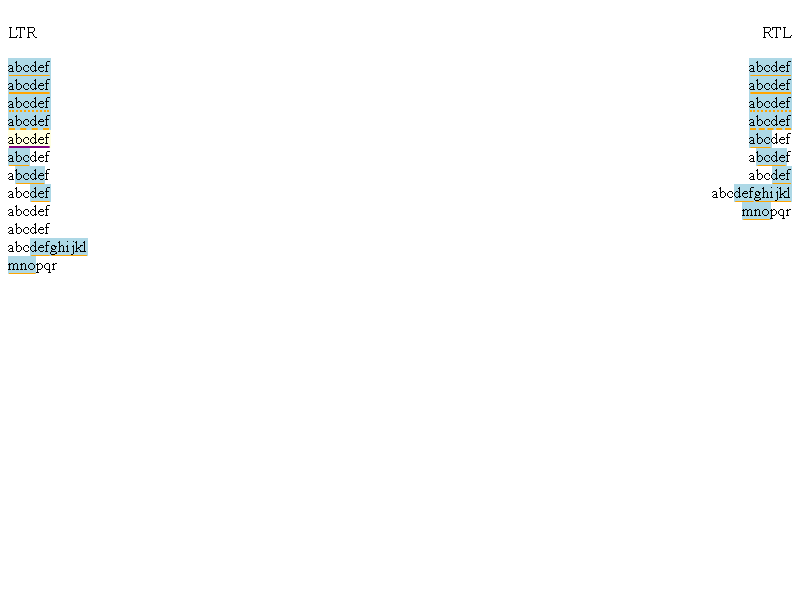
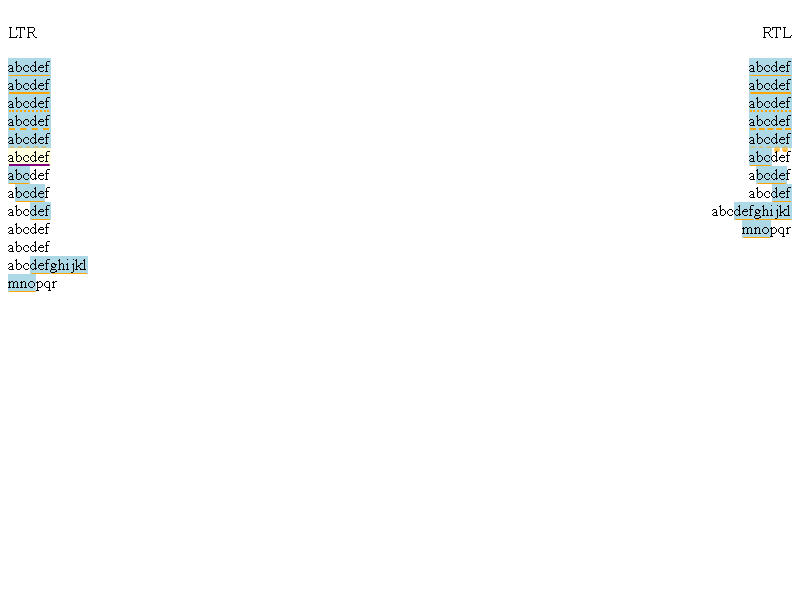
Added squiggle underline formatting style in styleable marker.
Added squiggle underline style in IMETextSpan for IMEs that apply those
formats during an active composition such as MS Japanese IME. Currently,
the squiggle format is only applicable for composition markers.

Bug: 1033764

Commit-Queue: Anupam Snigdha <snianu@microsoft.com>
Cr-Original-Commit-Position: refs/heads/master@{#751040}
Cr-Mirrored-From: https://chromium.googlesource.com/chromium/src
Cr-Mirrored-Commit: 499ffb1df389117f7e158933c3f0cc665c708e24

Changed region(s): [[0.0, 0.21, 0.125, 0.51], [0.9062, 0.21, 1.0, 0.42]]

diff --git a/blink/web_tests/paint/markers/composition-marker-basic.html b/blink/web_tests/paint/markers/composition-marker-basic.html
@@ -8,6 +8,7 @@
     <div id="markRtlAllThick">abcdef</div>
     <div id="markRtlAllDotted">abcdef</div>
     <div id="markRtlAllDashed">abcdef</div>
+    <div id="markRtlAllSquiggled">abcdef</div>
     <div id="markRtlBeginning">abcdef</div>
     <div id="markRtlAllExceptFirstAndLast">abcdef</div>
     <div id="markRtlEnd">abcdef</div>
@@ -20,6 +21,7 @@
     <div id="markAllThick">abcdef</div>
     <div id="markAllDotted">abcdef</div>
     <div id="markAllDashed">abcdef</div>
+    <div id="markAllSquiggled">abcdef</div>
     <div id="markAllDifferentColors">abcdef</div>
     <div id="markBeginning">abcdef</div>
     <div id="markAllExceptFirstAndLast">abcdef</div>
@@ -56,6 +58,7 @@ onload = runAfterLayoutAndPaint(function() {
     highlightRange(markAllThick, 0, 6, 'orange', 'thick', 'solid', 'lightBlue');
     highlightRange(markAllDotted, 0, 6, 'orange', 'thick', 'dot', 'lightBlue');
     highlightRange(markAllDashed, 0, 6, 'orange', 'thick', 'dash', 'lightBlue');
+    highlightRange(markAllSquiggled, 0, 6, 'orange', 'thick', 'squiggle', 'lightBlue');
     highlightRange(markAllDifferentColors, 0, 6, 'purple', 'thick', 'solid', 'lightYellow');
     highlightRangeSimple(markBeginning, 0, 3);
     highlightRangeSimple(markAllExceptFirstAndLast, 1, 5);
@@ -67,6 +70,7 @@ onload = runAfterLayoutAndPaint(function() {
     highlightRange(markRtlAllThick, 0, 6, 'orange', 'thick', 'solid', 'lightBlue');
     highlightRange(markRtlAllDotted, 0, 6, 'orange', 'thick', 'dot', 'lightBlue');
     highlightRange(markRtlAllDashed, 0, 6, 'orange', 'thick', 'dash', 'lightBlue');
+    highlightRange(markRtlAllSquiggled, 0, 6, 'orange', 'thick', 'squiggle', 'lightBlue');
     highlightRangeSimple(markRtlBeginning, 0, 3);
     highlightRangeSimple(markRtlAllExceptFirstAndLast, 1, 5);
     highlightRangeSimple(markRtlEnd, 3, 6);

diff --git a/blink/renderer/core/paint/document_marker_painter.cc b/blink/renderer/core/paint/document_marker_painter.cc
@@ -95,25 +95,8 @@ sk_sp<PaintRecord> RecordMarker(Color blink_color) {
 void DrawDocumentMarker(GraphicsContext& context,
                         const FloatPoint& pt,
                         float width,
-                        DocumentMarker::MarkerType marker_type,
-                        float zoom) {
-  DCHECK(marker_type == DocumentMarker::kSpelling ||
-         marker_type == DocumentMarker::kGrammar);
-
-  DEFINE_STATIC_LOCAL(
-      PaintRecord*, spelling_marker,
-      (RecordMarker(
-           LayoutTheme::GetTheme().PlatformSpellingMarkerUnderlineColor())
-           .release()));
-  DEFINE_STATIC_LOCAL(
-      PaintRecord*, grammar_marker,
-      (RecordMarker(
-           LayoutTheme::GetTheme().PlatformGrammarMarkerUnderlineColor())
-           .release()));
-  auto* const marker = marker_type == DocumentMarker::kSpelling
-                           ? spelling_marker
-                           : grammar_marker;
-
+                        float zoom,
+                        PaintRecord* const marker) {
   // Position already includes zoom and device scale factor.
   SkScalar origin_x = WebCoreFloatToSkScalar(pt.X());
   SkScalar origin_y = WebCoreFloatToSkScalar(pt.Y());
@@ -185,28 +168,49 @@ void DocumentMarkerPainter::PaintStyleableMarkerUnderline(
       marker.UseTextColor()
           ? style.VisitedDependentColor(GetCSSPropertyWebkitTextFillColor())
           : marker.UnderlineColor();
-  context.SetStrokeColor(marker_color);
-  // Set the style of the underline if there is any.
-  switch (marker.UnderlineStyle()) {
-    case ui::mojom::ImeTextSpanUnderlineStyle::kDash:
-      context.SetStrokeStyle(StrokeStyle::kDashedStroke);
-      break;
-    case ui::mojom::ImeTextSpanUnderlineStyle::kDot:
-      context.SetStrokeStyle(StrokeStyle::kDottedStroke);
-      break;
-    case ui::mojom::ImeTextSpanUnderlineStyle::kSolid:
-      context.SetStrokeStyle(StrokeStyle::kSolidStroke);
-      break;
-    case ui::mojom::ImeTextSpanUnderlineStyle::kNone:
-      context.SetStrokeStyle(StrokeStyle::kNoStroke);
-      break;
+  if (marker.UnderlineStyle() !=
+      ui::mojom::ImeTextSpanUnderlineStyle::kSquiggle) {
+    context.SetStrokeColor(marker_color);
+    context.SetStrokeThickness(line_thickness);
+    // Set the style of the underline if there is any.
+    switch (marker.UnderlineStyle()) {
+      case ui::mojom::ImeTextSpanUnderlineStyle::kDash:
+        context.SetStrokeStyle(StrokeStyle::kDashedStroke);
+        break;
+      case ui::mojom::ImeTextSpanUnderlineStyle::kDot:
+        context.SetStrokeStyle(StrokeStyle::kDottedStroke);
+        break;
+      case ui::mojom::ImeTextSpanUnderlineStyle::kSolid:
+        context.SetStrokeStyle(StrokeStyle::kSolidStroke);
+        break;
+      case ui::mojom::ImeTextSpanUnderlineStyle::kNone:
+        context.SetStrokeStyle(StrokeStyle::kNoStroke);
+        break;
+      case ui::mojom::ImeTextSpanUnderlineStyle::kSquiggle:
+        // Wavy stroke style is not implemented in DrawLineForText so we handle
+        // it specially in the else condition below only for composition
+        // markers.
+        break;
+    }
+    context.DrawLineForText(
+        FloatPoint(box_origin.left + start,
+                   (box_origin.top + logical_height.ToInt() - line_thickness)
+                       .ToFloat()),
+        width);
+  } else {
+    // For wavy underline format we use this logic that is very similar to
+    // spelling/grammar squiggles format. Only applicable for composition
+    // markers for now.
+    if (marker.GetType() == DocumentMarker::kComposition) {
+      sk_sp<PaintRecord> composition_marker = (RecordMarker(marker_color));
+      DrawDocumentMarker(
+          context,
+          FloatPoint((box_origin.left + start).ToFloat(),
+                     (box_origin.top + logical_height.ToInt() - line_thickness)
+                         .ToFloat()),
+          width, line_thickness, composition_marker.get());
+    }
   }
-  context.SetStrokeThickness(line_thickness);
-  context.DrawLineForText(
-      FloatPoint(
-          box_origin.left + start,
-          (box_origin.top + logical_height.ToInt() - line_thickness).ToFloat()),
-      width);
 }
 
 void DocumentMarkerPainter::PaintDocumentMarker(
@@ -241,10 +245,24 @@ void DocumentMarkerPainter::PaintDocumentMarker(
     // prevent a big gap.
     underline_offset = baseline + 2 * zoom;
   }
+  DEFINE_STATIC_LOCAL(
+      PaintRecord*, spelling_marker,
+      (RecordMarker(
+           LayoutTheme::GetTheme().PlatformSpellingMarkerUnderlineColor())
+           .release()));
+  DEFINE_STATIC_LOCAL(
+      PaintRecord*, grammar_marker,
+      (RecordMarker(
+           LayoutTheme::GetTheme().PlatformGrammarMarkerUnderlineColor())
+           .release()));
+
+  auto* const marker = marker_type == DocumentMarker::kSpelling
+                           ? spelling_marker
+                           : grammar_marker;
   DrawDocumentMarker(context,
                      FloatPoint((box_origin.left + local_rect.X()).ToFloat(),
                                 (box_origin.top + underline_offset).ToFloat()),
-                     local_rect.Width().ToFloat(), marker_type, zoom);
+                     local_rect.Width().ToFloat(), zoom, marker);
 }
 
 TextPaintStyle DocumentMarkerPainter::ComputeTextPaintStyleFrom(

diff --git a/blink/renderer/core/editing/ime/ime_text_span_test.cc b/blink/renderer/core/editing/ime/ime_text_span_test.cc
@@ -18,6 +18,16 @@ ImeTextSpan CreateImeTextSpan(unsigned start_offset, unsigned end_offset) {
                      Color::kTransparent, Color::kTransparent);
 }
 
+ImeTextSpan CreateImeTextSpan(
+    unsigned start_offset,
+    unsigned end_offset,
+    ui::mojom::ImeTextSpanUnderlineStyle underline_style) {
+  return ImeTextSpan(ImeTextSpan::Type::kComposition, start_offset, end_offset,
+                     Color::kTransparent,
+                     ui::mojom::ImeTextSpanThickness::kNone, underline_style,
+                     Color::kTransparent, Color::kTransparent);
+}
+
 TEST(ImeTextSpanTest, OneChar) {
   ImeTextSpan ime_text_span = CreateImeTextSpan(0, 1);
   EXPECT_EQ(0u, ime_text_span.StartOffset());
@@ -72,6 +82,25 @@ TEST(ImeTextSpanTest, LastCharEndBeforeStartZeroEnd) {
   EXPECT_EQ(std::numeric_limits<unsigned>::max() - 1,
             ime_text_span.StartOffset());
   EXPECT_EQ(std::numeric_limits<unsigned>::max(), ime_text_span.EndOffset());
+}
+
+TEST(ImeTextSpanTest, UnderlineStyles) {
+  ImeTextSpan ime_text_span =
+      CreateImeTextSpan(0, 5, ui::mojom::ImeTextSpanUnderlineStyle::kSolid);
+  EXPECT_EQ(ui::mojom::ImeTextSpanUnderlineStyle::kSolid,
+            ime_text_span.UnderlineStyle());
+  ime_text_span =
+      CreateImeTextSpan(0, 5, ui::mojom::ImeTextSpanUnderlineStyle::kDot);
+  EXPECT_EQ(ui::mojom::ImeTextSpanUnderlineStyle::kDot,
+            ime_text_span.UnderlineStyle());
+  ime_text_span =
+      CreateImeTextSpan(0, 5, ui::mojom::ImeTextSpanUnderlineStyle::kDash);
+  EXPECT_EQ(ui::mojom::ImeTextSpanUnderlineStyle::kDash,
+            ime_text_span.UnderlineStyle());
+  ime_text_span =
+      CreateImeTextSpan(0, 5, ui::mojom::ImeTextSpanUnderlineStyle::kSquiggle);
+  EXPECT_EQ(ui::mojom::ImeTextSpanUnderlineStyle::kSquiggle,
+            ime_text_span.UnderlineStyle());
 }
 
 }  // namespace

diff --git a/blink/renderer/core/editing/markers/composition_marker_test.cc b/blink/renderer/core/editing/markers/composition_marker_test.cc
@@ -83,4 +83,22 @@ TEST_F(CompositionMarkerTest, UnderlineStyleDashed) {
   EXPECT_EQ(Color::kTransparent, marker->TextColor());
 }
 
+TEST_F(CompositionMarkerTest, UnderlineStyleSquiggled) {
+  CompositionMarker* marker = MakeGarbageCollected<CompositionMarker>(
+      0, 1, Color::kDarkGray, ImeTextSpanThickness::kThin,
+      ImeTextSpanUnderlineStyle::kSquiggle, Color::kTransparent, Color::kGray);
+  EXPECT_EQ(Color::kDarkGray, marker->UnderlineColor());
+  EXPECT_TRUE(marker->HasThicknessThin());
+  EXPECT_EQ(ImeTextSpanUnderlineStyle::kSquiggle, marker->UnderlineStyle());
+  EXPECT_EQ(Color::kTransparent, marker->TextColor());
+  EXPECT_EQ(Color::kGray, marker->BackgroundColor());
+
+  CompositionMarker* thick_marker = MakeGarbageCollected<CompositionMarker>(
+      0, 1, Color::kDarkGray, ImeTextSpanThickness::kThick,
+      ImeTextSpanUnderlineStyle::kSquiggle, Color::kTransparent, Color::kGray);
+  EXPECT_TRUE(thick_marker->HasThicknessThick());
+  EXPECT_EQ(ImeTextSpanUnderlineStyle::kSquiggle, marker->UnderlineStyle());
+  EXPECT_EQ(Color::kTransparent, marker->TextColor());
+}
+
 }  // namespace blink

diff --git a/blink/renderer/core/testing/internals.cc b/blink/renderer/core/testing/internals.cc
@@ -1144,6 +1144,8 @@ static base::Optional<ImeTextSpanUnderlineStyle> UnderlineStyleFrom(
     return ImeTextSpanUnderlineStyle::kDot;
   if (EqualIgnoringASCIICase(underline_style, "dash"))
     return ImeTextSpanUnderlineStyle::kDash;
+  if (EqualIgnoringASCIICase(underline_style, "squiggle"))
+    return ImeTextSpanUnderlineStyle::kSquiggle;
   return base::nullopt;
 }
 
